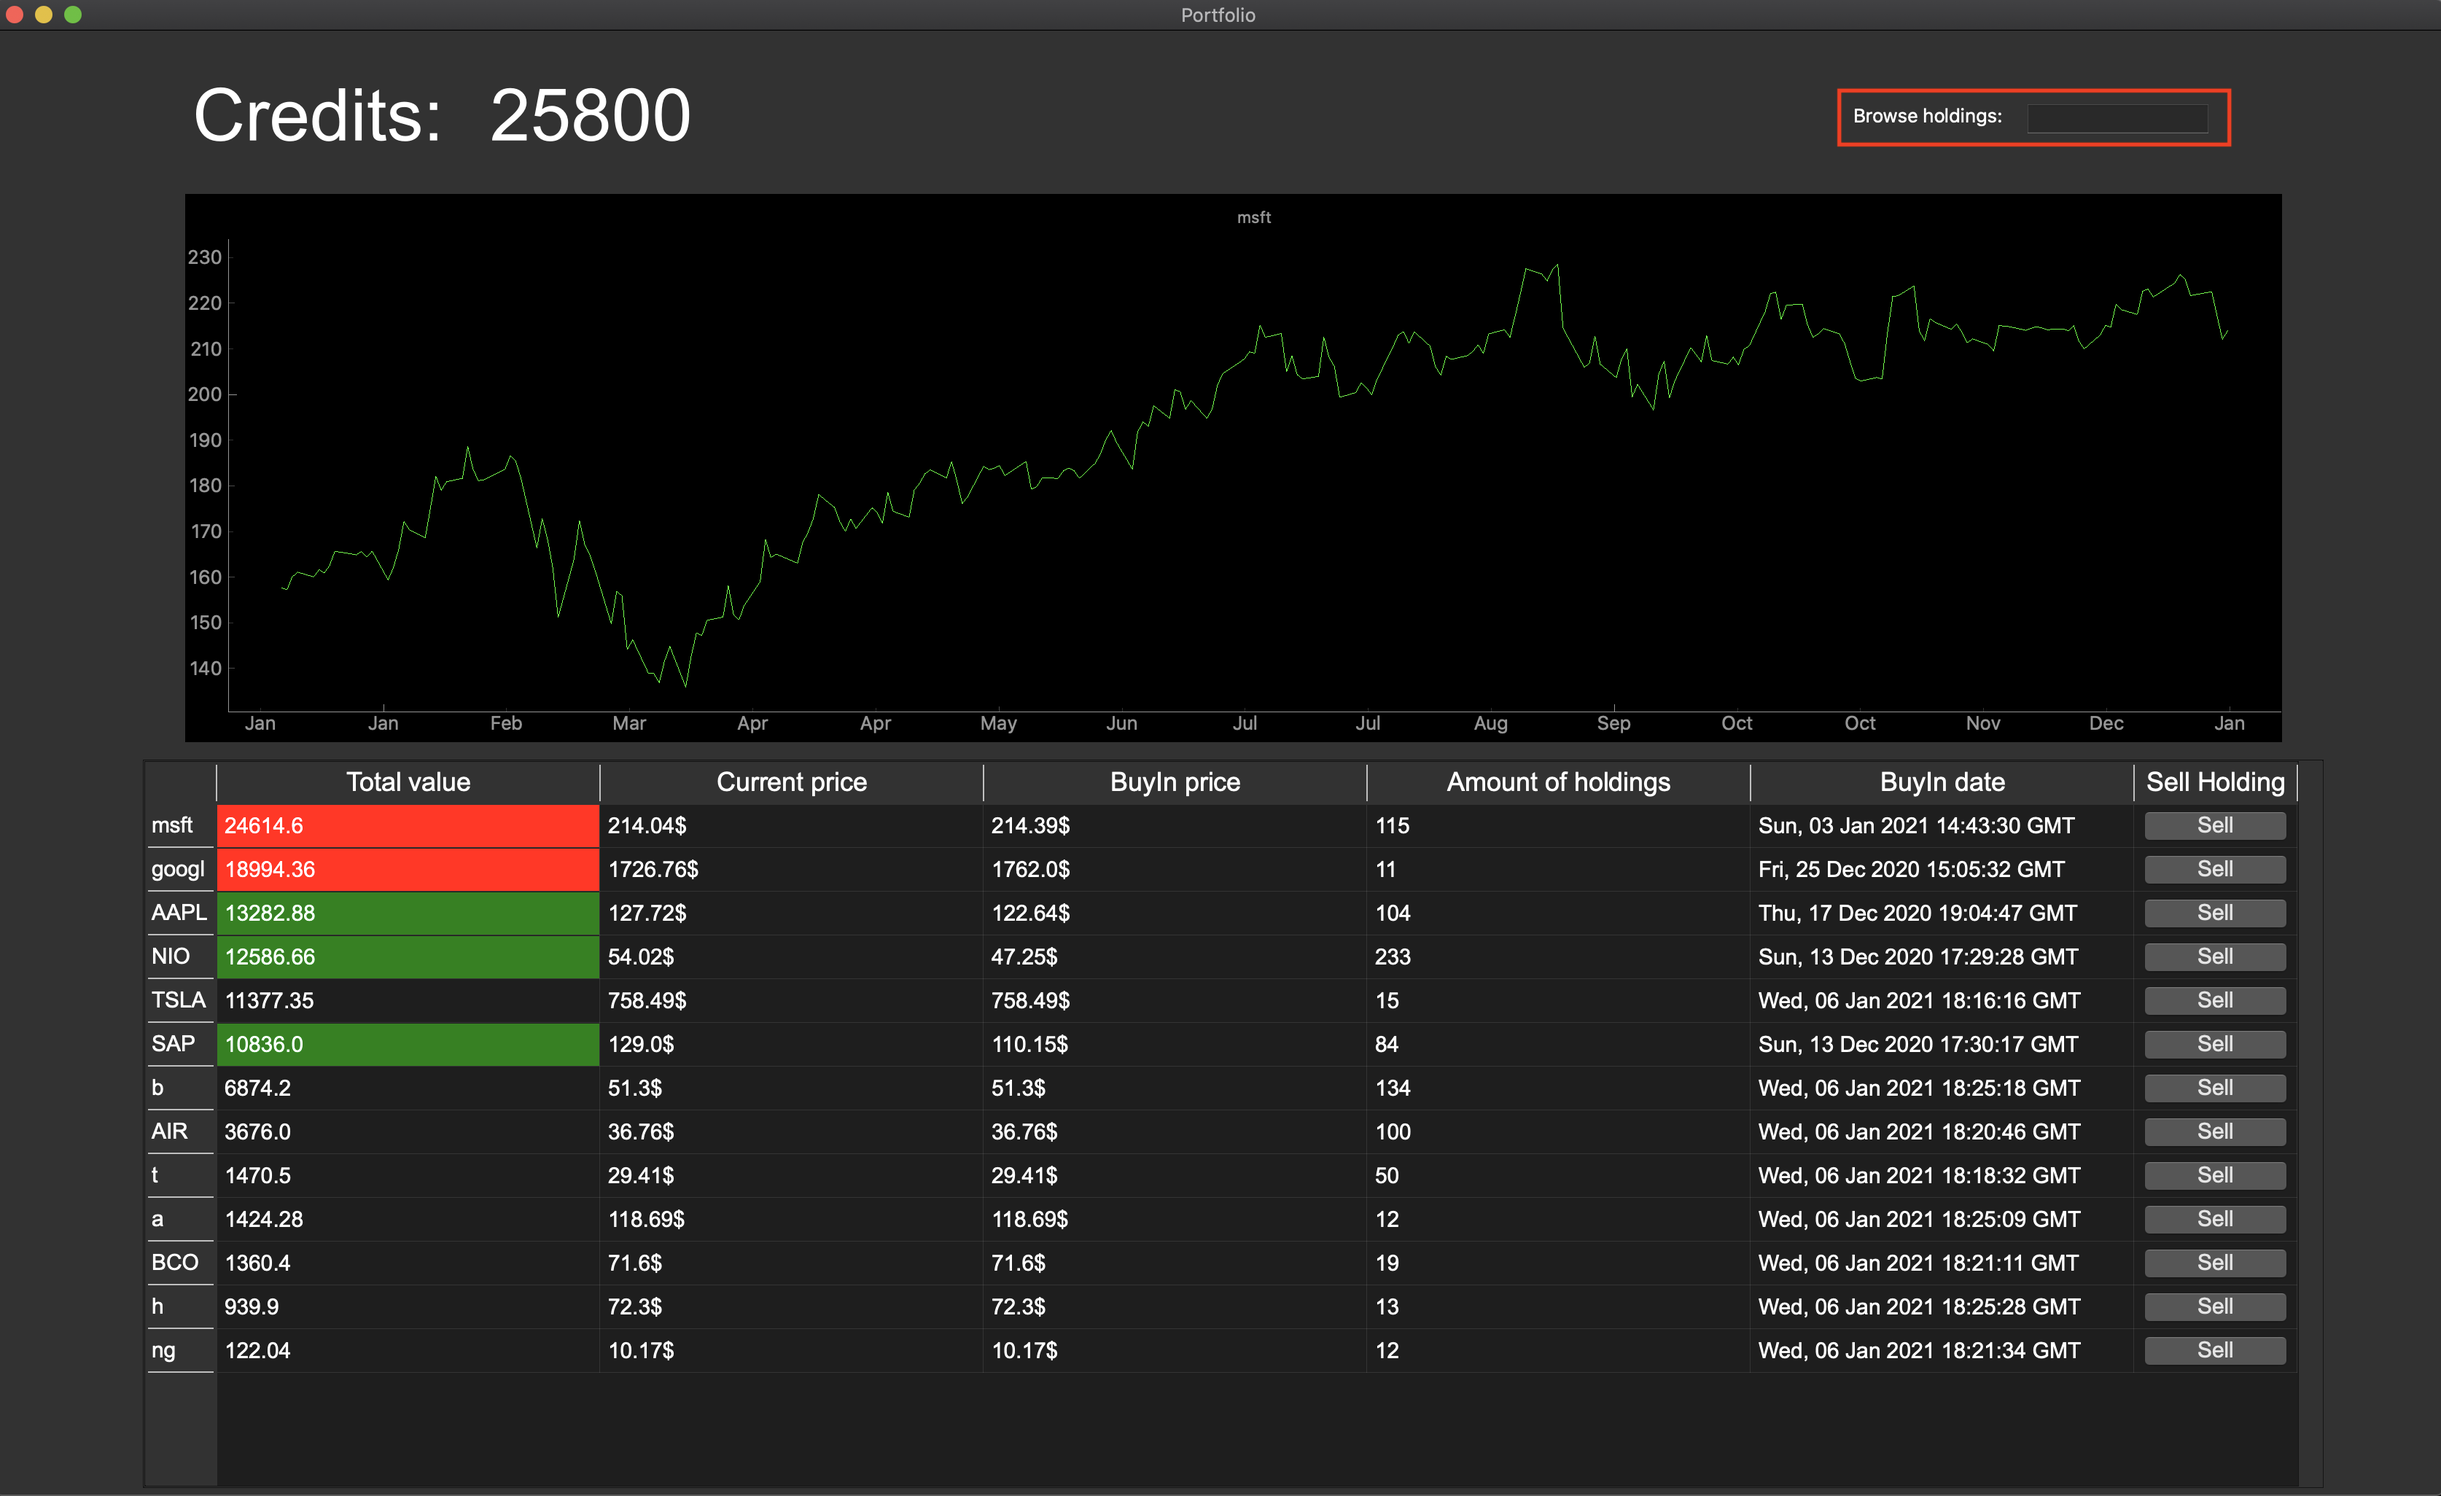
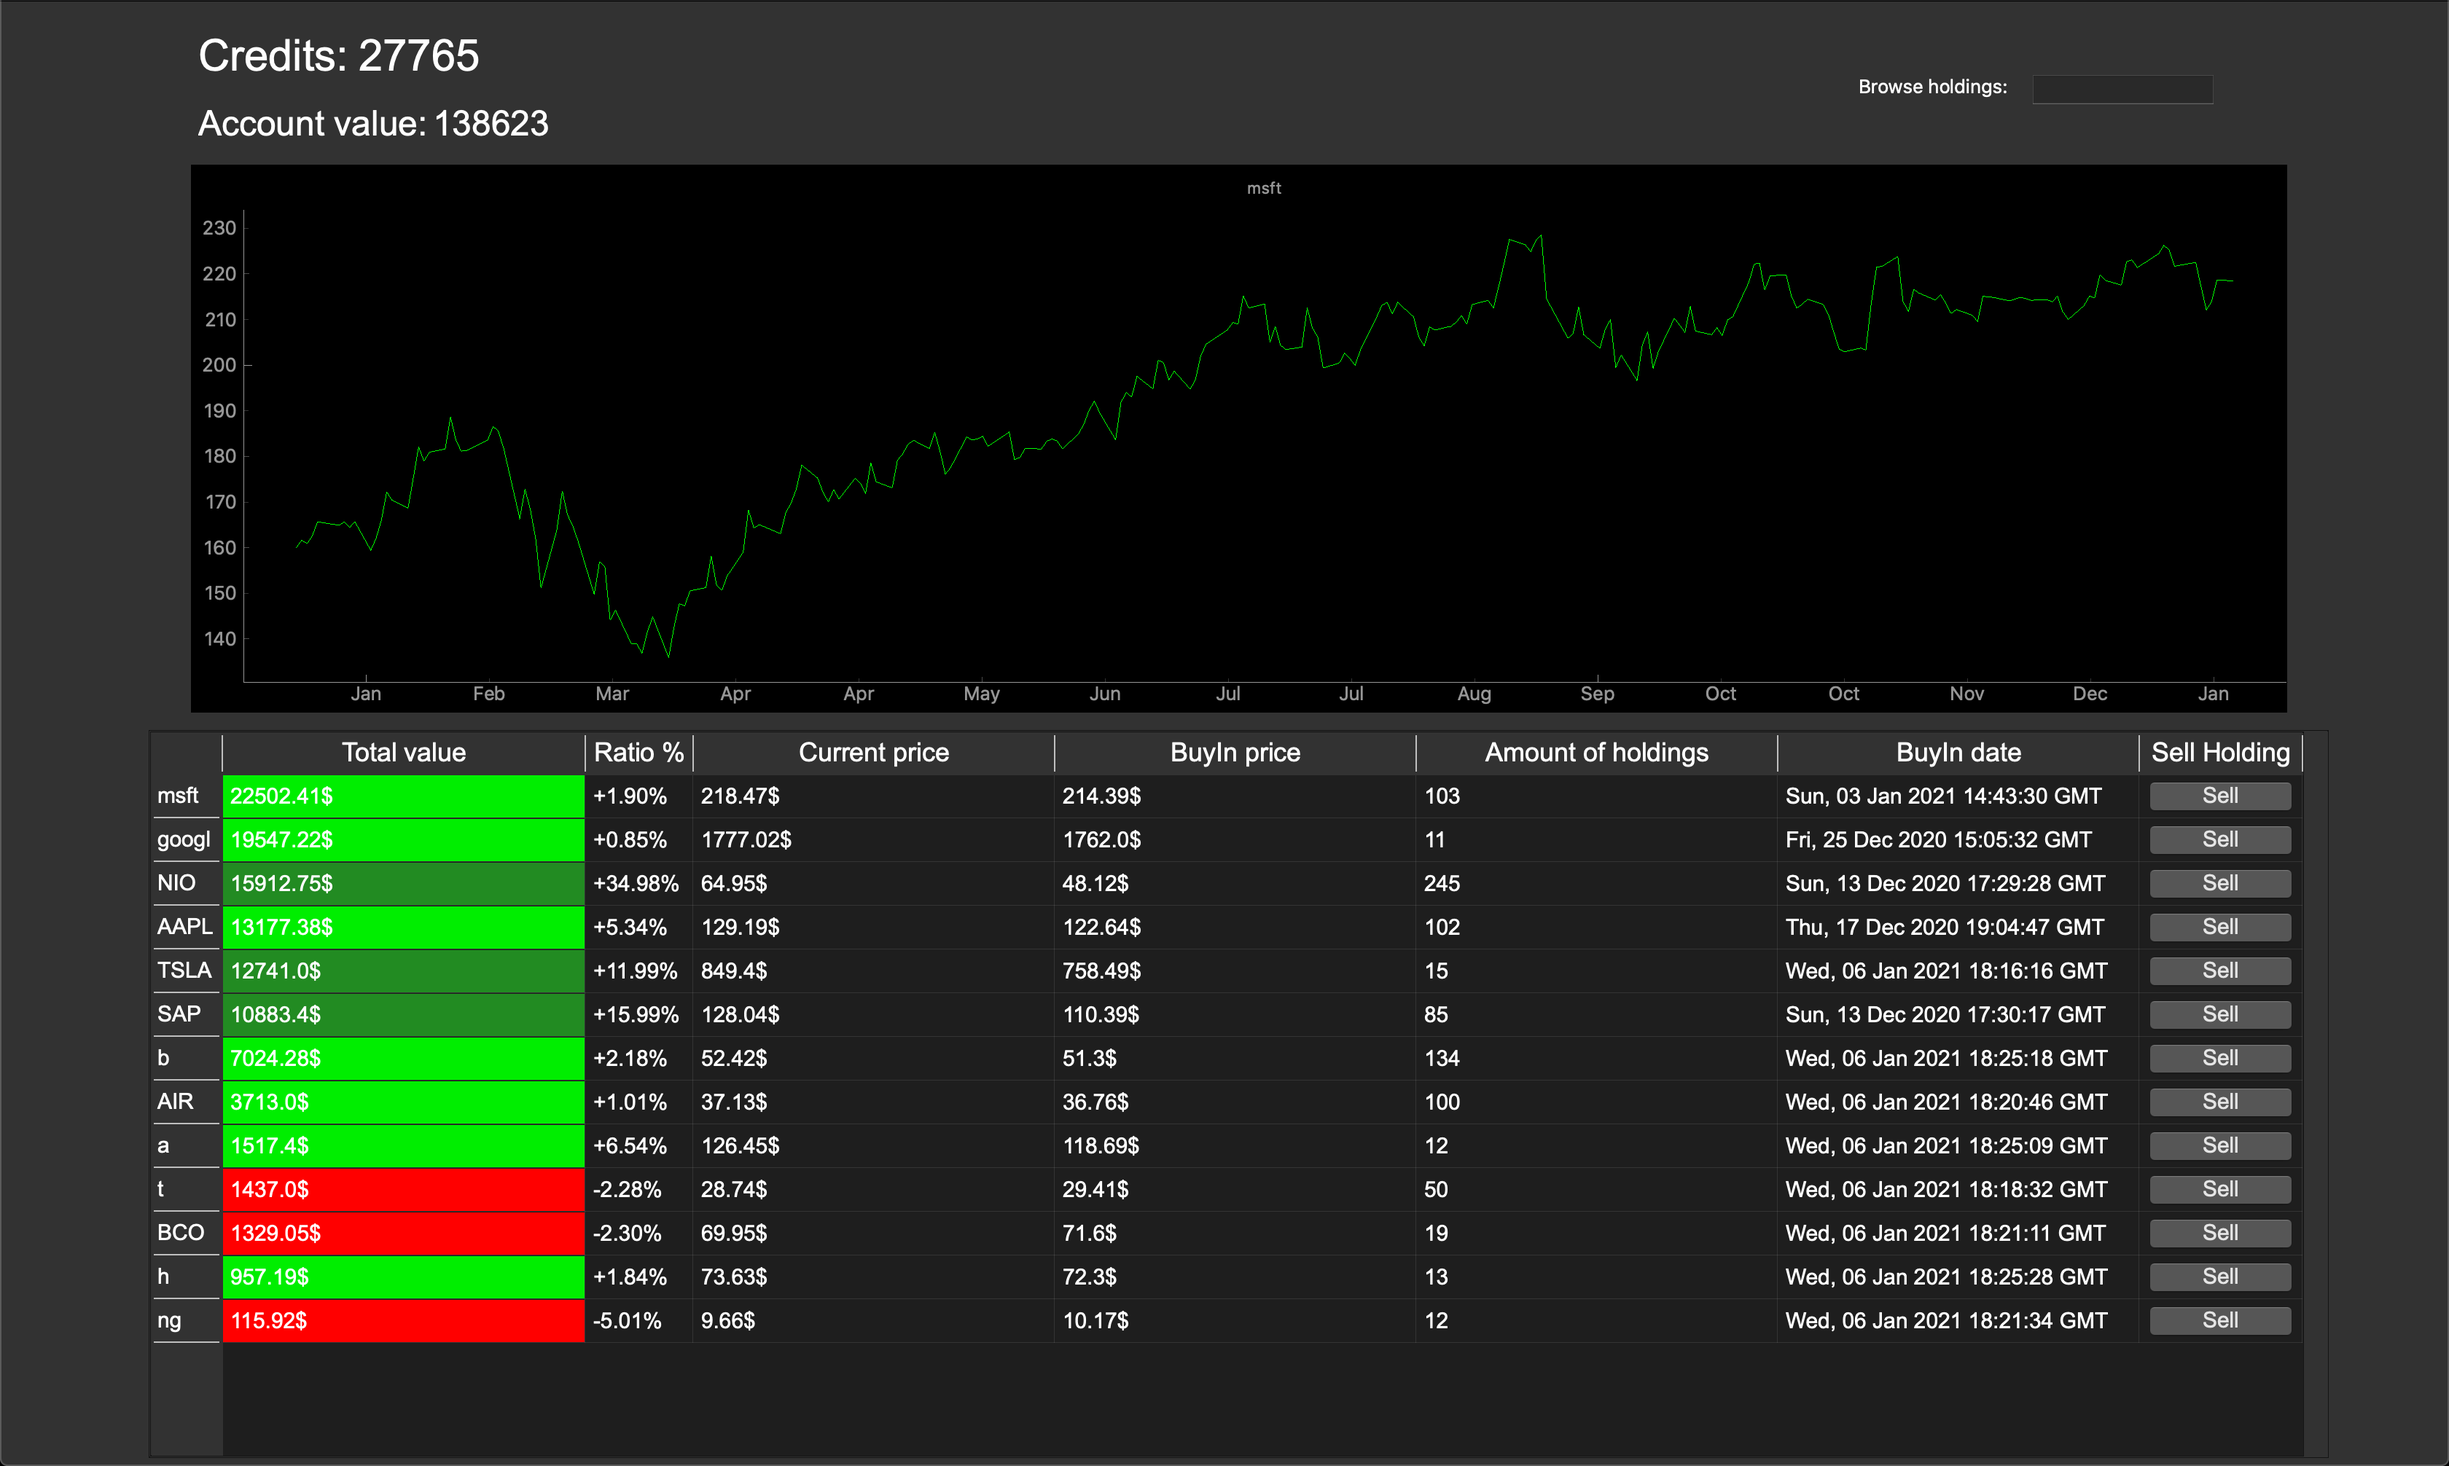
Mache letzte Änderungen

diff --git a/controller.py b/controller.py
@@ -92,7 +92,33 @@ class Controller:
         holding_names = self.holding_names
         row = item.row()
         clicked_holding_row = holding_names[row]
-        self.update_graph(clicked_holding_row, "1y", self._main_gui.graph_for_portfolio)
+        holding_data = holdings_data_utils.get_holding_price_for_period(clicked_holding_row, "1y")
+        prices = holding_data.values
+        date = holding_data.keys()
+        self.update_graph(clicked_holding_row, prices, date, self._main_gui.graph_for_portfolio)
+
+    def init_graph(self, first_holding):
+        holding_data = holdings_data_utils.get_holding_price_for_period(first_holding, "1y")
+        prices = holding_data.values
+        date = holding_data.keys()
+        self.update_graph(first_holding, prices, date, self._main_gui.graph_for_portfolio)
+
+    def update_graph(self, holding, prices, dates, graph):
+        date_in_ticks = self.date_in_ticks(dates)
+        amount_of_saved_prices = len(prices)
+        if prices[0] > prices[amount_of_saved_prices-1]:
+            self._main_gui.update_graph(graph, holding, prices, date_in_ticks, 'r')
+        else:
+            self._main_gui.update_graph(graph, holding, prices, date_in_ticks, 'g')
+
+    def update_ratio_in_period(self, price_start_of_period, price_end_of_period):
+        ratio = self.get_ratio(price_end_of_period, price_start_of_period)
+        self._main_gui.update_ratio(ratio)
+        if ratio[0] == "+":
+            self._main_gui.set_background_color_for_label_ratio("green")
+        if ratio[0] == "-":
+            self._main_gui.set_background_color_for_label_ratio("red")
+        self._main_gui.update_start_price(price_start_of_period)
 
     def change_period(self):
         sender = self._main_gui.get_sender()
@@ -103,7 +129,11 @@ class Controller:
             period = "1y"
         if sender.geometry() == QRect(850, 820, 85, 30):
             period = "1mo"
-        self.update_graph(holding, period, self._main_gui.graph_for_browse_holdings)
+        holding_data = holdings_data_utils.get_holding_price_for_period(holding, period)
+        prices = holding_data.values
+        date = holding_data.keys()
+        self.update_graph(holding, prices, date, self._main_gui.graph_for_browse_holdings)
+        self.update_ratio_in_period(prices[0], prices[-1])
 
     def show_holdings_in_table(self, holdings_data):
         holdings = self._model.get_holdings_from_user(self.username)
@@ -126,20 +156,6 @@ class Controller:
             button = buttons_as_dict[holding]
             self._main_gui.show_button_in_table(button, button_index)
             button_index += 1
-
-    def init_graph(self, first_holding):
-        self.update_graph(first_holding, "1Y", self._main_gui.graph_for_portfolio)
-
-    def update_graph(self, holding, period, graph):
-        holding_data = holdings_data_utils.get_holding_price_for_period(holding, period)
-        prices = holding_data.values
-        date = holding_data.keys()
-        date_in_ticks = self.date_in_ticks(date)
-        amount_of_saved_prices = len(prices)
-        if prices[0] > prices[amount_of_saved_prices-1]:
-            self._main_gui.update_graph(graph, holding, prices, date_in_ticks, 'r')
-        else:
-            self._main_gui.update_graph(graph, holding, prices, date_in_ticks, 'g')
 
     def buy_holding(self):
         number_to_buy, is_buy_holding = self.how_many_holdings(HoldingAction.BUY)
@@ -219,14 +235,22 @@ class Controller:
         if holdings_data_utils.holding_exists(holding_name):
             holding_price = holdings_data_utils.get_current_price_of_holding(holding_name)
             self._main_gui.browse_new_holding(holding_name, holding_price)
-            self.update_graph(holding_name, "1y", self._main_gui.graph_for_browse_holdings)
+            holding_data = holdings_data_utils.get_holding_price_for_period(holding_name, "1y")
+            prices = holding_data.values
+            date = holding_data.keys()
+            self.update_graph(holding_name, prices, date, self._main_gui.graph_for_browse_holdings)
+            self.update_ratio_in_period(prices[0], prices[-1])
         else:
             self._main_gui.holding_doesnt_exist()
 
     def change_card_to_browse_holdings(self):
         holding_name = self._main_gui.textbox_browse_holdings.text()
         if self.browse_holding(holding_name):
-            self.update_graph(holding_name, "1y", self._main_gui.graph_for_browse_holdings)
+            holding_data = holdings_data_utils.get_holding_price_for_period(holding_name, "1y")
+            prices = holding_data.values
+            date = holding_data.keys()
+            self.update_graph(holding_name, prices, date, self._main_gui.graph_for_browse_holdings)
+            self.update_ratio_in_period(prices[0], prices[-1])
         user_credits = self._model.get_credits_by_username(self.username)
         self._main_gui.change_card_to_browse_holdings(user_credits)
 
@@ -235,7 +259,10 @@ class Controller:
         self._main_gui.change_card_to_portfolio(user_credits)
         self.update_table()
         first_holding = self.get_first_holding_from_user()
-        self.update_graph(first_holding, "1y", self._main_gui.graph_for_portfolio)
+        holding_data = holdings_data_utils.get_holding_price_for_period(first_holding, "1y")
+        prices = holding_data.values
+        date = holding_data.keys()
+        self.update_graph(first_holding, prices, date, self._main_gui.graph_for_portfolio)
 
     def how_many_holdings(self, action):
         if action == HoldingAction.BUY:
@@ -250,11 +277,11 @@ class Controller:
             return 0, ok_pressed
 
     def get_first_holding_from_user(self):
-        if not self._model.user_has_no_holdings(self.username):
+        if len(self.holding_names) > 0:
             first_holding = self.holding_names[0]
             return first_holding
         else:
-            return "aapl"
+            return 'aapl'
 
     def buttons_to_dict(self):
         holdings = self.holding_names
@@ -275,20 +302,20 @@ class Controller:
         ratio_as_int = re.search(r"([0-9\.]+)", ratio).group()
         ratio_as_int = float(ratio_as_int)
         if ratio_as_string[0] == "+":
-            r, g, b = self.which_green_color_for_ratio(ratio_as_int)
+            r, g, b = self.which_green_color_in_rgb_for_ratio(ratio_as_int)
             self._main_gui.set_background_color_for_total_value(position1, r, g, b)
         if ratio_as_string[0] == "-":
-            r, g, b = self.which_red_color_for_ratio(ratio_as_int)
+            r, g, b = self.which_red_color_in_rgb_for_ratio(ratio_as_int)
             self._main_gui.set_background_color_for_total_value(position1, r, g, b)
 
     @staticmethod
-    def which_green_color_for_ratio(ratio_int):
+    def which_green_color_in_rgb_for_ratio(ratio_int):
         if ratio_int > 10:
             return 34, 139, 34
-        return 0, 205, 0
+        return 0, 238, 0
 
     @staticmethod
-    def which_red_color_for_ratio(ratio_int):
+    def which_red_color_in_rgb_for_ratio(ratio_int):
         if ratio_int > 10:
             return 205, 0, 0
         return 255, 0, 0
@@ -346,18 +373,17 @@ class Controller:
         return holding_data
 
     @staticmethod
-    def get_ratio(holding_price, holding_buy_in_price):
-        if holding_price > holding_buy_in_price:
-            ratio = round(holding_price/holding_buy_in_price-1, 4)
+    def get_ratio(end_price, start_price):
+        if end_price > start_price:
+            ratio = round(end_price / start_price - 1, 4)
             ratio_as_percentage = "{:.2%}".format(ratio)
             ratio_as_percentage = "+"+ratio_as_percentage
-        if holding_price < holding_buy_in_price:
-            ratio = round(abs(holding_price/holding_buy_in_price-1), 4)
+        if end_price < start_price:
+            ratio = round(abs(end_price / start_price - 1), 4)
             ratio_as_percentage = "{:.2%}".format(ratio)
             ratio_as_percentage = "-"+ratio_as_percentage
-        if holding_price == holding_buy_in_price:
+        if end_price == start_price:
             ratio_as_percentage = "0%"
-        print(ratio_as_percentage)
         return ratio_as_percentage
 
     @staticmethod

diff --git a/model.py b/model.py
@@ -7,7 +7,6 @@ import yaml
 class Model:
     def __init__(self):
 
-        # export ENVIRON=production/development in Commando Zeile
         environment = os.environ.get('ENVIRON', 'development')
         with open("config.yaml", "r") as yamlfile:
             self.cfg = yaml.load(yamlfile, Loader=yaml.FullLoader)

diff --git a/README.md b/README.md
@@ -108,3 +108,10 @@ Dies geschieht über die Library yfinance.
 
 ### Frontend total lines of Code
 870
+
+## Links 
+GUI: [Qt5 Doku](https://doc.qt.io/qtforpython/) - [Pyqtgraph Doku](https://pyqtgraph.readthedocs.io/en/latest/)
+
+Requests: [Requests Doku](https://requests.readthedocs.io/de/latest/)
+
+
